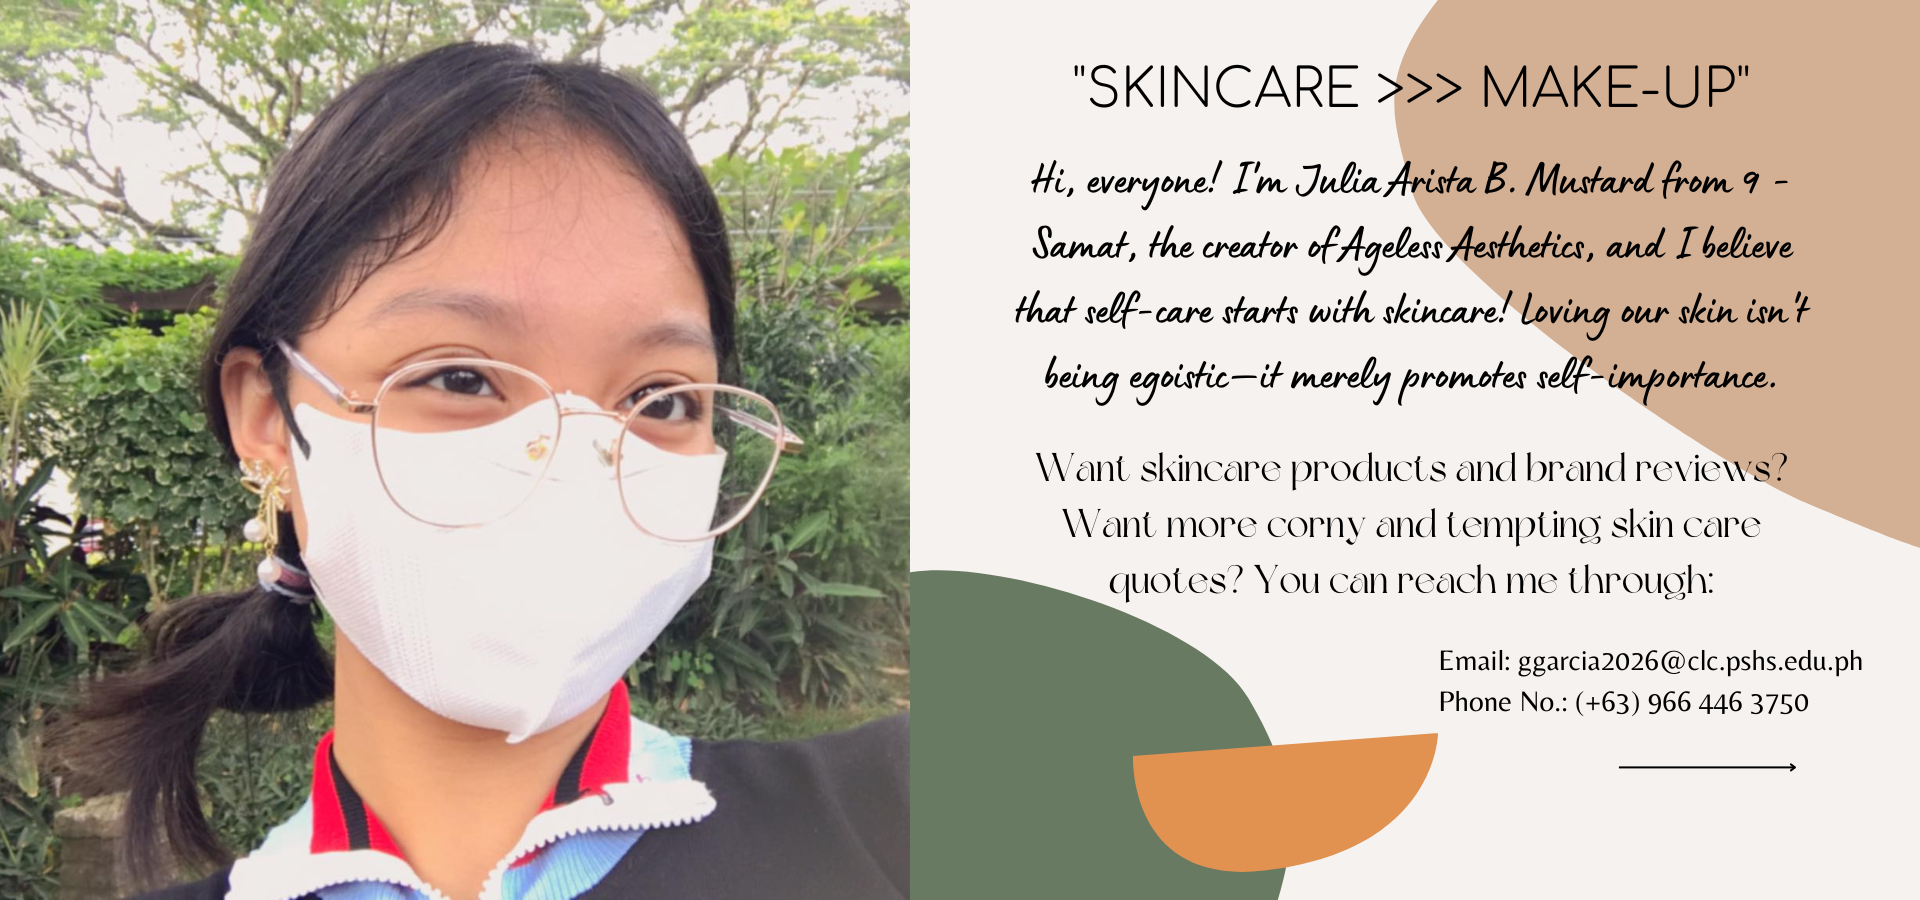
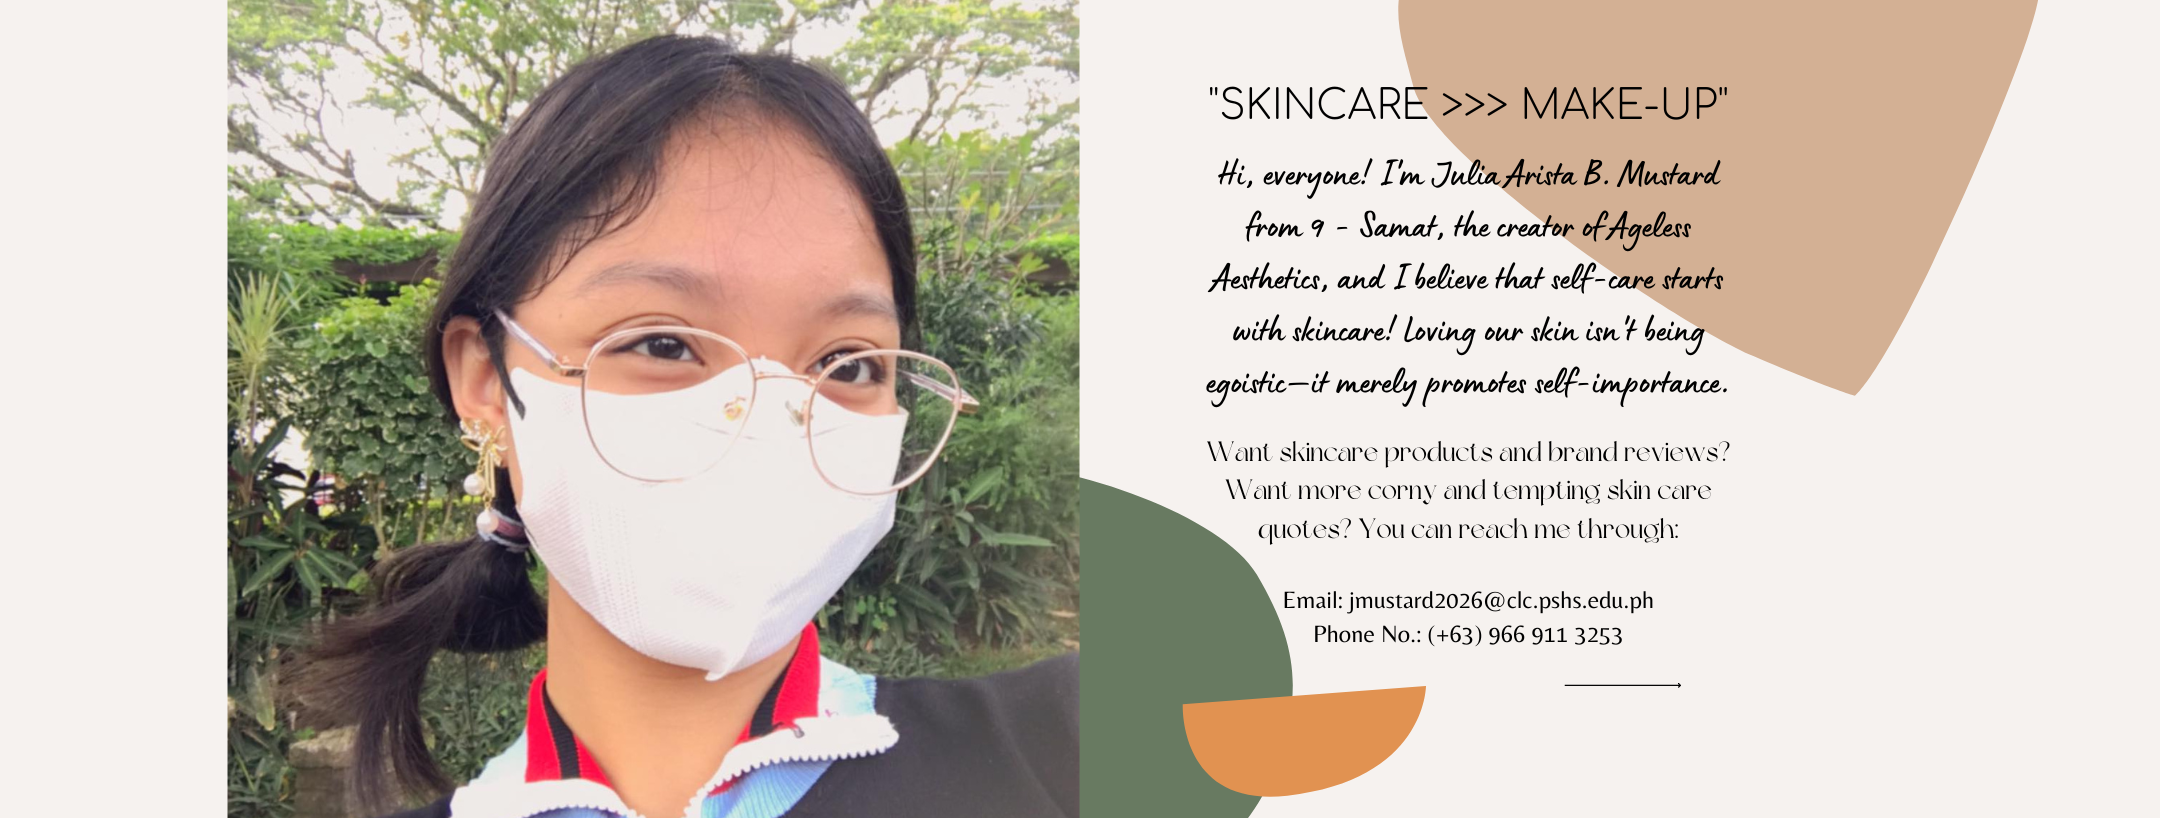
Add files via upload

diff --git a/meettheauthor.html b/meettheauthor.html
@@ -7,8 +7,11 @@
         <style>
             body {
             font-family: DM Serif Text, serif;
-            background-color: white;
+            background-color: #f6f2ef;
             color: black;
+            width: 1350px;
+            margin-left: auto;
+            margin-right: auto;
             }
             ul {
                 list-style-type: none;
@@ -36,16 +39,13 @@
                 color:#000000;
                 text-align: center;
             }
-            .profile_image {
-                width: 1280px;
-                height: 720px;
-                margin-top: 0;
-            }
             .container_1 {
                 display: flex;
                 background-image: url(4.png);
                 background-size: cover; 
                 background-repeat: no-repeat;
+                background-position: center center;
+                background-attachment: fixed;
             }
             .redirect {
                 background-color:#ffffff;
@@ -54,13 +54,21 @@
                 border-width: 2px; 
                 border-color:black; 
                 border-style: solid; 
-                margin-left: 1400px;
+                margin-left: 1000px;
                 margin-top: 730px;
                 margin-bottom: 30px;
                 float: right;
             }
             a:link {
                 text-decoration: none;
+            }
+            li a:hover{
+                color: beige;
+                background-color: #b88917;
+            }
+            .redirect:hover{
+                color: beige;
+                background-color: #b88917;
             }
         </style>
     </head>
